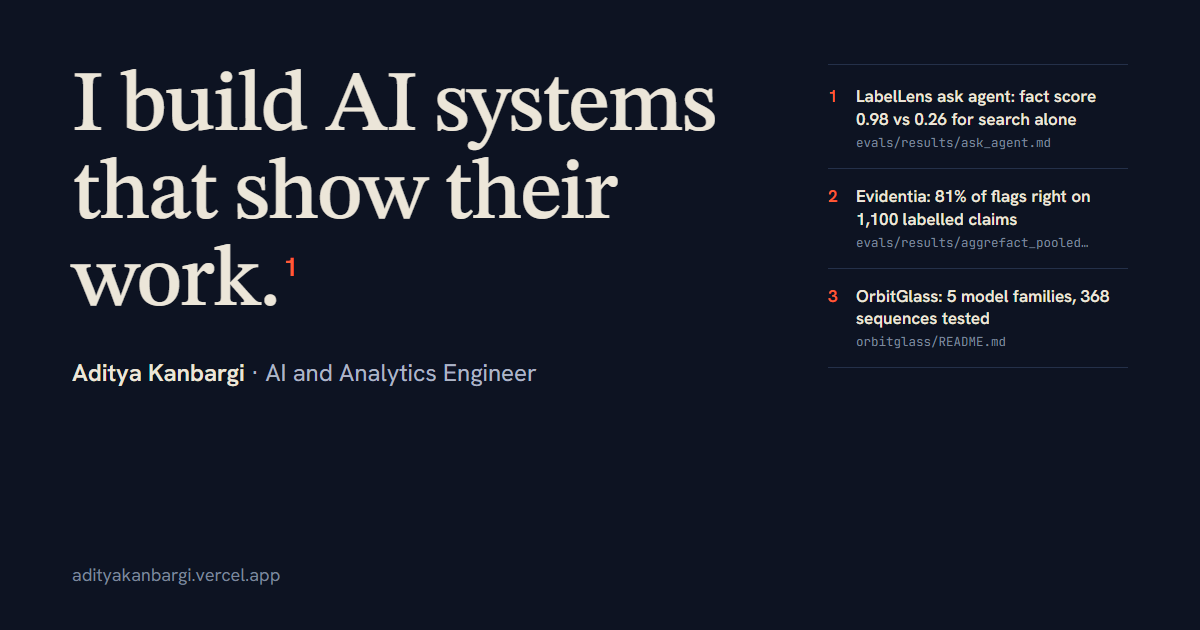
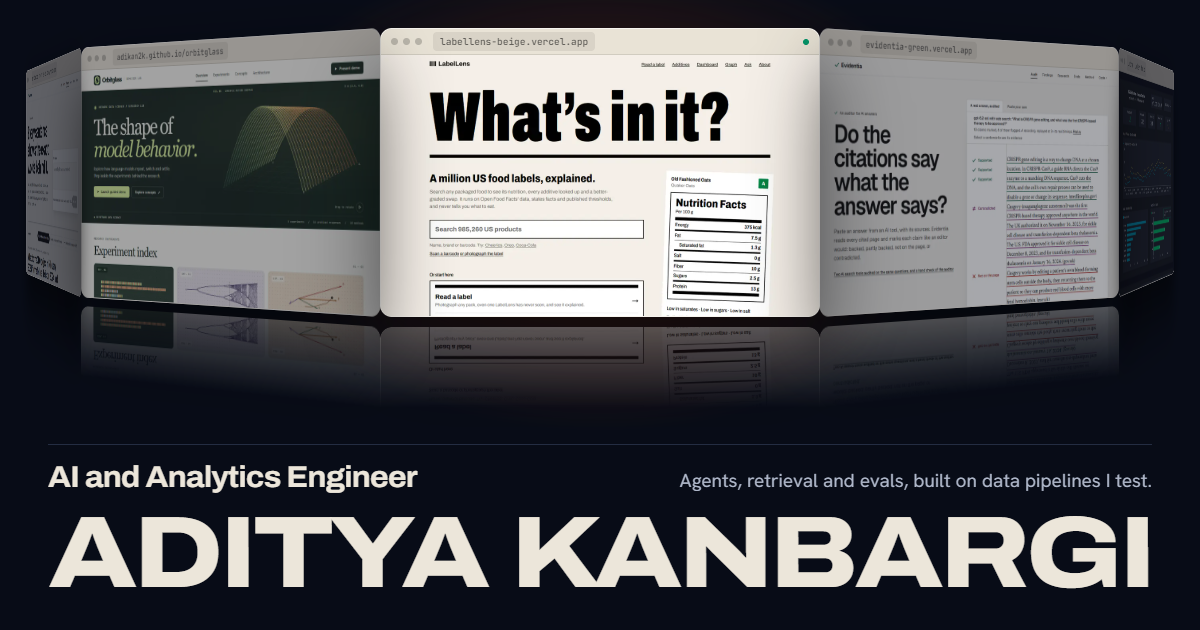
Widen the layout on large screens and refresh the link preview
- Page content now grows to 1920 px (was 1440) with wider side margins
  on very large screens.
- Ring screens are wider (16:9-ish) and grow with the window up to
  1100 px; the 3D perspective scales with the ring.
- New link preview image in the current style, with size, alt text and
  a Twitter image tag; the URL carries ?v=2 so shared links refresh.

diff --git a/client/src/components/hero/HeroRing.tsx b/client/src/components/hero/HeroRing.tsx
@@ -77,6 +77,8 @@ const CARDS = SCREENS;
 const COUNT = CARDS.length;
 const STEP = 360 / COUNT;
 const BAR = 30;
+/** Height over width of a screen on the ring. */
+const ASPECT = 0.56;
 const EASE_OUT = [0.16, 1, 0.3, 1] as const;
 
 /** Smallest signed angle, in degrees, between a card and the front of the ring. */
@@ -129,9 +131,10 @@ export default function HeroRing() {
     if (!el) return;
     const measure = () => {
       const narrow = el.clientWidth < 640;
-      const byHeight = (el.clientHeight - BAR - 30) / (0.625 * 1.2);
-      const w = Math.round(Math.max(220, Math.min(780, el.clientWidth * (narrow ? 0.86 : 0.74), byHeight)));
-      const h = Math.round(w * 0.625);
+      // Screens are a little wider than 16:10, and grow with the window up to 1100 px.
+      const byHeight = (el.clientHeight - BAR - 30) / (ASPECT * 1.2);
+      const w = Math.round(Math.max(220, Math.min(1100, el.clientWidth * (narrow ? 0.86 : 0.6), byHeight)));
+      const h = Math.round(w * ASPECT);
       const r = Math.round((w * 1.08) / (2 * Math.sin((STEP * Math.PI) / 360)));
       // Sit the screen in the middle of the room left once its reflection is counted.
       setSize({ w, h, r, cy: Math.round(Math.max(10 + (BAR + h) / 2, (el.clientHeight - h * 0.2) / 2)) });
@@ -269,7 +272,7 @@ export default function HeroRing() {
           tiltY.set(0);
         }}
       >
-        <motion.div className="absolute inset-0" style={{ perspective: "1700px", perspectiveOrigin: `50% ${size.cy}px`, scale: stageScale, opacity: stageOpacity }}>
+        <motion.div className="absolute inset-0" style={{ perspective: `${Math.max(1700, Math.round(size.r * 1.05))}px`, perspectiveOrigin: `50% ${size.cy}px`, scale: stageScale, opacity: stageOpacity }}>
           <motion.div className="absolute left-1/2 h-0 w-0" style={{ top: size.cy, transformStyle: "preserve-3d", transform: ringTransform }}>
             {CARDS.map((c, i) => (
               <RingCard
@@ -306,7 +309,7 @@ export default function HeroRing() {
         )}
       </div>
 
-      <div className="relative z-10 mx-auto w-full max-w-[1440px] px-5 md:px-10">
+      <div className="relative z-10 mx-auto w-full max-w-[1920px] px-5 md:px-10 2xl:px-16">
         <div className="flex items-center justify-between gap-4 pb-3 md:pb-4">
           <motion.div
             key={card.src}

diff --git a/client/index.html b/client/index.html
@@ -17,8 +17,12 @@
     <meta property="og:title" content="Aditya Kanbargi | AI and Analytics Engineer" />
     <meta property="og:description" content="I build AI systems that show their work: agents, retrieval and evals on tested data pipelines." />
     <meta property="og:url" content="https://adityakanbargi.vercel.app/" />
-    <meta property="og:image" content="https://adityakanbargi.vercel.app/og.png" />
+    <meta property="og:image" content="https://adityakanbargi.vercel.app/og.png?v=2" />
+    <meta property="og:image:width" content="1200" />
+    <meta property="og:image:height" content="630" />
+    <meta property="og:image:alt" content="Aditya Kanbargi, AI and Analytics Engineer, over screens from LabelLens, Evidentia and OrbitGlass" />
     <meta name="twitter:card" content="summary_large_image" />
+    <meta name="twitter:image" content="https://adityakanbargi.vercel.app/og.png?v=2" />
     <meta property="og:type" content="website" />
     <link rel="icon" type="image/png" href="/favicon.png" />
     <link rel="preconnect" href="https://fonts.googleapis.com">

diff --git a/client/src/components/Footer.tsx b/client/src/components/Footer.tsx
@@ -7,7 +7,7 @@ export default function Footer() {
   const year = new Date().getFullYear();
   return (
     <footer className="mt-24 border-t border-border md:mt-36">
-      <div className="mx-auto flex max-w-[1440px] flex-col gap-4 px-5 py-8 font-sans text-[13px] text-faint md:flex-row md:items-center md:justify-between md:px-10">
+      <div className="mx-auto flex max-w-[1920px] flex-col gap-4 px-5 py-8 font-sans text-[13px] text-faint md:flex-row md:items-center md:justify-between md:px-10 2xl:px-16">
         <div className="flex flex-wrap items-center gap-x-6 gap-y-1 text-[14px] font-medium">
           <a href={`mailto:${EMAIL}`} className="ref-link py-3 text-foreground">
             {EMAIL}

diff --git a/client/src/components/tryit/TryIt.tsx b/client/src/components/tryit/TryIt.tsx
@@ -37,7 +37,7 @@ export default function TryIt() {
 
   return (
     <section id="try" aria-labelledby="try-title" className="relative scroll-mt-20 border-t border-border py-16 md:py-24">
-      <div className="mx-auto grid max-w-[1440px] grid-cols-1 gap-x-12 gap-y-8 px-5 md:px-10 lg:grid-cols-[minmax(0,5fr)_minmax(0,8fr)]">
+      <div className="mx-auto grid max-w-[1920px] grid-cols-1 gap-x-12 gap-y-8 px-5 md:px-10 2xl:px-16 lg:grid-cols-[minmax(0,5fr)_minmax(0,8fr)]">
         <div>
           <h2 id="try-title" className="display text-[clamp(2.4rem,5vw,4.5rem)]" style={{ lineHeight: 0.92 }}>
             Don&rsquo;t read about my work. <span className="text-cite">Use it.</span>

diff --git a/client/src/components/work/FeaturedProject.tsx b/client/src/components/work/FeaturedProject.tsx
@@ -28,7 +28,7 @@ export default function FeaturedProject({ project, index, total }: { project: Fe
         style={{ backgroundColor: `hsl(${project.glow} / 0.42)`, maskImage: glow, WebkitMaskImage: glow }}
       />
 
-      <div className="relative mx-auto max-w-[1440px] px-5 md:px-10">
+      <div className="relative mx-auto max-w-[1920px] px-5 md:px-10 2xl:px-16">
         <div className="flex flex-wrap items-baseline justify-between gap-x-6 gap-y-1 border-t border-border pt-5 font-sans text-[14px] font-medium text-faint">
           <span className="figure-nums">
             {String(index + 1).padStart(2, "0")} / {String(total).padStart(2, "0")}

diff --git a/client/src/components/work/EarlierProjects.tsx b/client/src/components/work/EarlierProjects.tsx
@@ -24,7 +24,7 @@ export default function EarlierProjects() {
   const count = (f: "All" | Category) => (f === "All" ? projects.length : projects.filter((p) => p.categories.includes(f)).length);
 
   return (
-    <div id="index" className="mx-auto mt-28 max-w-[1440px] scroll-mt-24 px-5 md:mt-40 md:px-10">
+    <div id="index" className="mx-auto mt-28 max-w-[1920px] scroll-mt-24 px-5 md:mt-40 md:px-10 2xl:px-16">
       <div className="flex flex-col gap-x-10 gap-y-5 border-t border-border pt-8 lg:flex-row lg:items-end lg:justify-between">
         <div>
           <h3 className="display text-[clamp(2.5rem,6vw,5.5rem)]" style={{ lineHeight: 0.92 }}>

diff --git a/client/src/components/Contact.tsx b/client/src/components/Contact.tsx
@@ -33,7 +33,7 @@ export default function Contact() {
           WebkitMaskImage: "radial-gradient(60% 70% at 50% 75%, black, transparent 75%)",
         }}
       />
-      <div className="relative mx-auto max-w-[1440px] px-5 md:px-10">
+      <div className="relative mx-auto max-w-[1920px] px-5 md:px-10 2xl:px-16">
         <p className="font-sans text-[15px] font-semibold text-faint">Contact</p>
         <h2 id="contact-title" className="display mt-4 max-w-[14ch] text-[clamp(3rem,8vw,7.5rem)]" style={{ lineHeight: 0.92 }}>
           Hiring for AI or analytics engineering? <span className="text-cite">Let&rsquo;s talk.</span>

diff --git a/client/src/components/Experience.tsx b/client/src/components/Experience.tsx
@@ -278,7 +278,7 @@ function RoleRow({ role }: { role: Role }) {
 export default function Experience() {
   return (
     <section id="experience" aria-labelledby="experience-title" className="scroll-mt-20 pt-32 md:pt-48">
-      <div className="mx-auto max-w-[1440px] px-5 md:px-10">
+      <div className="mx-auto max-w-[1920px] px-5 md:px-10 2xl:px-16">
         <SectionHead id="experience-title" title="Experience">
           About three years across analytics and AI engineering, newest first. Figures as on my{" "}
           <Cite id="resume" before="resume" after="." />

diff --git a/client/src/components/Projects.tsx b/client/src/components/Projects.tsx
@@ -7,7 +7,7 @@ import { featured } from "@/content/featured";
 export default function Projects() {
   return (
     <section id="work" aria-labelledby="work-title" className="scroll-mt-20 pt-28 md:pt-40">
-      <div className="mx-auto max-w-[1440px] px-5 md:px-10">
+      <div className="mx-auto max-w-[1920px] px-5 md:px-10 2xl:px-16">
         <SectionHead id="work-title" title="Selected work">
           Three systems I built and measured, with every number linked to where it came from. Then sixteen earlier projects.
         </SectionHead>

diff --git a/client/src/components/Navigation.tsx b/client/src/components/Navigation.tsx
@@ -84,7 +84,7 @@ export default function Navigation({ onThemeToggle, isDark = true }: NavigationP
         onFocusCapture={() => setHidden(false)}
         transition={{ duration: reduced ? 0 : 0.35, ease: EASE }}
       >
-        <div className="mx-auto flex h-16 max-w-[1440px] items-center justify-between gap-6 px-5 md:h-[4.5rem] md:px-10">
+        <div className="mx-auto flex h-16 max-w-[1920px] items-center justify-between gap-6 px-5 md:h-[4.5rem] md:px-10 2xl:px-16">
           <a
             href="#top"
             onClick={(e) => {

diff --git a/client/src/pages/not-found.tsx b/client/src/pages/not-found.tsx
@@ -7,7 +7,7 @@ export default function NotFound() {
 
   return (
     <main className="flex min-h-screen items-center bg-background px-5 text-foreground md:px-10">
-      <div className="mx-auto w-full max-w-[1440px]">
+      <div className="mx-auto w-full max-w-[1920px]">
         <p className="figure-nums font-sans text-[15px] font-semibold text-cite">404</p>
         <h1 className="display mt-3 max-w-[14ch] text-[clamp(3rem,8vw,7.5rem)]" style={{ lineHeight: 0.92 }}>
           Nothing lives at this address.

diff --git a/client/src/components/TechStack.tsx b/client/src/components/TechStack.tsx
@@ -93,7 +93,7 @@ const groups: MethodGroup[] = [
 export default function TechStack() {
   return (
     <section id="methods" aria-labelledby="methods-title" className="scroll-mt-20 pt-32 md:pt-48">
-      <div className="mx-auto max-w-[1440px] px-5 md:px-10">
+      <div className="mx-auto max-w-[1920px] px-5 md:px-10 2xl:px-16">
         <SectionHead id="methods-title" title="What I work with" size="lg">
           Languages, frameworks and platforms, AI and data engineering first.
         </SectionHead>
